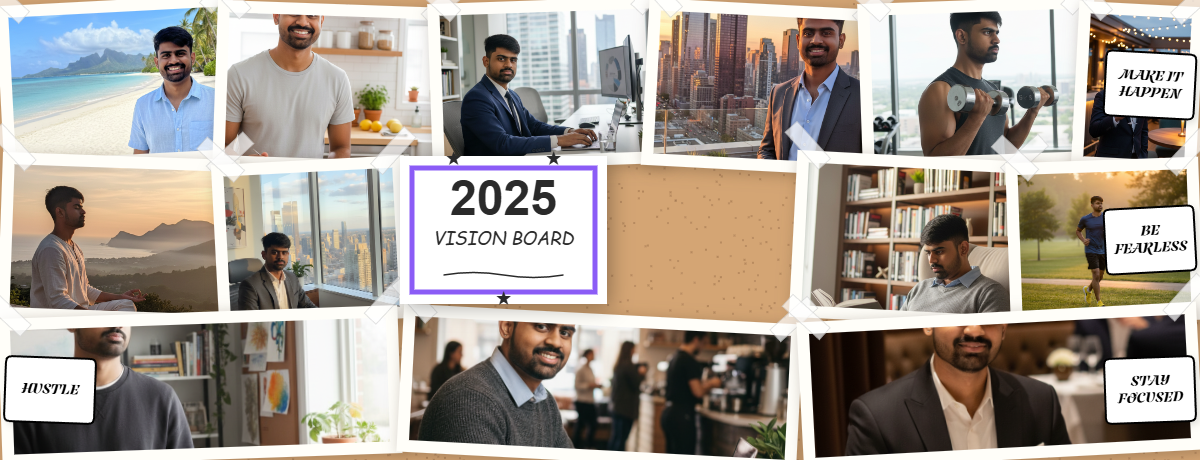
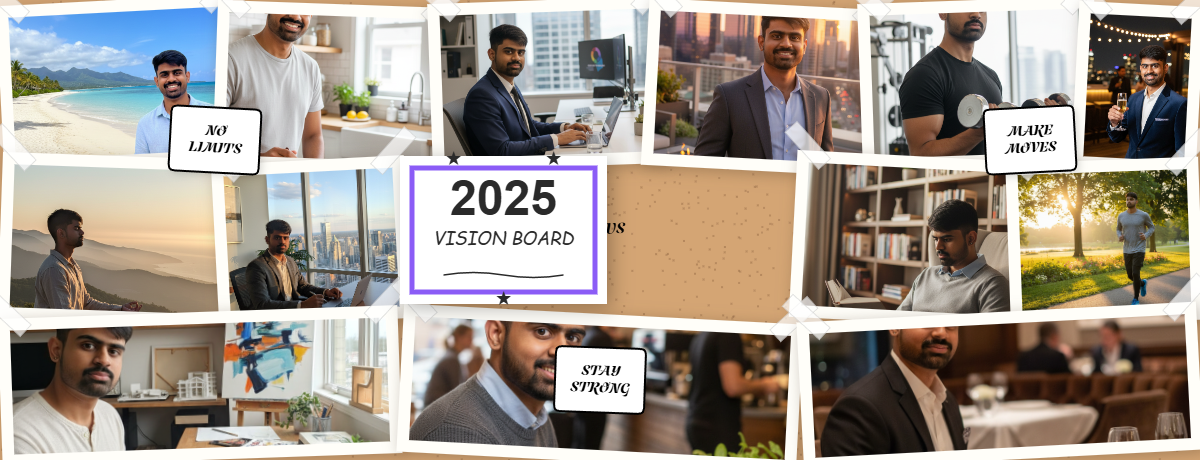
magazine collage template changes

diff --git a/src/components/templates/MagazineCollageTemplate.tsx b/src/components/templates/MagazineCollageTemplate.tsx
@@ -273,59 +273,124 @@ export default function MagazineCollageTemplate({
         ctx.restore();
       });
 
-      // Draw center "2025 VISION BOARD" card (scaled to 74%)
+      // Draw center "2025 VISION BOARD" card - Improved styling
       const centerX = 400;
       const centerY = 156;
       const centerW = 207;
       const centerH = 148;
+      const borderRadius = 8;
 
       ctx.save();
       ctx.translate(centerX + centerW / 2, centerY + centerH / 2);
       ctx.rotate(0); // No rotation for center card
 
-      // White background card
+      // White background card with rounded corners
+      const x = -centerW / 2;
+      const y = -centerH / 2;
+
+      ctx.beginPath();
+      ctx.moveTo(x + borderRadius, y);
+      ctx.lineTo(x + centerW - borderRadius, y);
+      ctx.quadraticCurveTo(x + centerW, y, x + centerW, y + borderRadius);
+      ctx.lineTo(x + centerW, y + centerH - borderRadius);
+      ctx.quadraticCurveTo(x + centerW, y + centerH, x + centerW - borderRadius, y + centerH);
+      ctx.lineTo(x + borderRadius, y + centerH);
+      ctx.quadraticCurveTo(x, y + centerH, x, y + centerH - borderRadius);
+      ctx.lineTo(x, y + borderRadius);
+      ctx.quadraticCurveTo(x, y, x + borderRadius, y);
+      ctx.closePath();
+
       ctx.fillStyle = '#ffffff';
       ctx.shadowColor = 'rgba(0, 0, 0, 0.3)';
       ctx.shadowBlur = 20;
       ctx.shadowOffsetX = 4;
       ctx.shadowOffsetY = 4;
-      ctx.fillRect(-centerW / 2, -centerH / 2, centerW, centerH);
+      ctx.fill();
       ctx.shadowColor = 'transparent';
 
-      // Purple border
-      ctx.strokeStyle = '#8b5cf6';
-      ctx.lineWidth = 5;
-      ctx.strokeRect(-centerW / 2 + 12, -centerH / 2 + 12, centerW - 24, centerH - 24);
+      // Gradient border (purple to pink)
+      const gradient = ctx.createLinearGradient(x, y, x + centerW, y + centerH);
+      gradient.addColorStop(0, '#8b5cf6');
+      gradient.addColorStop(1, '#ec4899');
+      ctx.strokeStyle = gradient;
+      ctx.lineWidth = 4;
+      ctx.strokeRect(x + 10, y + 10, centerW - 20, centerH - 20);
 
-      // Decorative stars at top
-      ctx.fillStyle = '#2a2a2a';
-      ctx.font = '20px Arial';
+      // "2025" text with gradient effect (simulated with solid color)
+      ctx.fillStyle = '#8b5cf6';
+      ctx.font = 'bold 52px Arial, sans-serif';
       ctx.textAlign = 'center';
-      ctx.fillText('★', -50, -65);
-      ctx.fillText('★', 50, -65);
-
-      // "2025" text
-      ctx.fillStyle = '#2a2a2a';
-      ctx.font = 'bold 48px Arial, sans-serif';
-      ctx.textAlign = 'center';
-      ctx.fillText('2025', 0, -15);
+      ctx.fillText('2025', 0, -10);
 
       // "VISION BOARD" text
-      ctx.font = 'italic 18px "Brush Script MT", cursive, Georgia';
+      ctx.fillStyle = '#4a5568';
+      ctx.font = 'italic 600 16px Georgia, serif';
       ctx.fillText('VISION BOARD', 0, 15);
 
-      // Wavy line decoration
-      ctx.strokeStyle = '#2a2a2a';
-      ctx.lineWidth = 1.5;
+      // Decorative underline with gradient
+      const underlineGradient = ctx.createLinearGradient(-60, 0, 60, 0);
+      underlineGradient.addColorStop(0, 'rgba(139, 92, 246, 0)');
+      underlineGradient.addColorStop(0.3, '#8b5cf6');
+      underlineGradient.addColorStop(0.7, '#ec4899');
+      underlineGradient.addColorStop(1, 'rgba(236, 72, 153, 0)');
+
+      ctx.fillStyle = underlineGradient;
+      ctx.fillRect(-60, 54, 120, 2);
+
+      ctx.restore();
+
+      // Draw transparent quote next to Vision Board card
+      const quoteX = 630;
+      const quoteY = 185;
+      const quoteW = 100;
+      const quoteH = 70;
+      const quoteRadius = 6;
+
+      ctx.save();
+      ctx.translate(quoteX + quoteW / 2, quoteY + quoteH / 2);
+      ctx.rotate((3 * Math.PI) / 180); // 3 degree rotation
+
+      const qx = -quoteW / 2;
+      const qy = -quoteH / 2;
+
+      // Rounded rectangle for transparent container
       ctx.beginPath();
-      ctx.moveTo(-60, 45);
-      ctx.quadraticCurveTo(-30, 40, 0, 45);
-      ctx.quadraticCurveTo(30, 50, 60, 45);
+      ctx.moveTo(qx + quoteRadius, qy);
+      ctx.lineTo(qx + quoteW - quoteRadius, qy);
+      ctx.quadraticCurveTo(qx + quoteW, qy, qx + quoteW, qy + quoteRadius);
+      ctx.lineTo(qx + quoteW, qy + quoteH - quoteRadius);
+      ctx.quadraticCurveTo(qx + quoteW, qy + quoteH, qx + quoteW - quoteRadius, qy + quoteH);
+      ctx.lineTo(qx + quoteRadius, qy + quoteH);
+      ctx.quadraticCurveTo(qx, qy + quoteH, qx, qy + quoteH - quoteRadius);
+      ctx.lineTo(qx, qy + quoteRadius);
+      ctx.quadraticCurveTo(qx, qy, qx + quoteRadius, qy);
+      ctx.closePath();
+
+      // Semi-transparent white background
+      ctx.fillStyle = 'rgba(255, 255, 255, 0.3)';
+      ctx.shadowColor = 'rgba(0, 0, 0, 0.1)';
+      ctx.shadowBlur = 6;
+      ctx.shadowOffsetX = 2;
+      ctx.shadowOffsetY = 2;
+      ctx.fill();
+
+      // Semi-transparent border
+      ctx.strokeStyle = 'rgba(0, 0, 0, 0.2)';
+      ctx.lineWidth = 2;
+      ctx.shadowColor = 'transparent';
       ctx.stroke();
 
-      // Bottom star
-      ctx.font = '20px Arial';
-      ctx.fillText('★', 0, 75);
+      // Draw quote text
+      ctx.fillStyle = '#000000';
+      ctx.font = 'bold 14px Telma, Arial, sans-serif';
+      ctx.textAlign = 'center';
+      ctx.textBaseline = 'middle';
+
+      const quoteLines = selectedQuotes[0].split('\n');
+      quoteLines.forEach((line, index) => {
+        const yOffset = (index - (quoteLines.length - 1) / 2) * 17;
+        ctx.fillText(line, 0, yOffset);
+      });
 
       ctx.restore();
     };
@@ -572,7 +637,7 @@ export default function MagazineCollageTemplate({
           />
         </div>
 
-        {/* Center "2025 VISION BOARD" Card */}
+        {/* Center "2025 VISION BOARD" Card - Improved Styling */}
         <div
           className="absolute bg-white shadow-2xl flex flex-col items-center justify-center"
           style={{
@@ -581,77 +646,97 @@ export default function MagazineCollageTemplate({
             width: '207px',
             height: '148px',
             zIndex: 100,
+            borderRadius: '8px',
           }}
         >
-          {/* Purple Border */}
+          {/* Gradient Border */}
           <div
             style={{
               position: 'absolute',
-              top: '12px',
-              left: '12px',
-              right: '12px',
-              bottom: '12px',
-              border: '5px solid #8b5cf6',
+              top: '10px',
+              left: '10px',
+              right: '10px',
+              bottom: '10px',
+              border: '4px solid',
+              borderImage: 'linear-gradient(135deg, #8b5cf6, #ec4899) 1',
+              borderRadius: '4px',
             }}
           />
-
-          {/* Decorative Stars at top */}
-          <div style={{
-            position: 'absolute',
-            top: '18%',
-            fontSize: '20px',
-            color: '#2a2a2a',
-            display: 'flex',
-            gap: '100px'
-          }}>
-            <span>★</span>
-            <span>★</span>
-          </div>
 
           {/* Main Text Container */}
           <div style={{
             display: 'flex',
             flexDirection: 'column',
             alignItems: 'center',
-            gap: '8px',
+            gap: '4px',
             marginTop: '0'
           }}>
             <div style={{
-              fontSize: '48px',
+              fontSize: '52px',
               fontWeight: 'bold',
-              color: '#2a2a2a',
-              lineHeight: '1'
+              background: 'linear-gradient(135deg, #8b5cf6, #ec4899)',
+              WebkitBackgroundClip: 'text',
+              WebkitTextFillColor: 'transparent',
+              lineHeight: '1',
+              letterSpacing: '2px',
             }}>
               2025
             </div>
             <div style={{
-              fontFamily: '"Brush Script MT", cursive, Georgia',
+              fontFamily: 'Georgia, serif',
               fontStyle: 'italic',
-              fontSize: '18px',
-              color: '#2a2a2a',
+              fontSize: '16px',
+              color: '#4a5568',
+              letterSpacing: '1px',
+              fontWeight: '600',
             }}>
               VISION BOARD
             </div>
           </div>
 
-          {/* Wavy Line */}
-          <svg style={{
-            position: 'absolute',
-            bottom: '22%',
-            width: '50%'
-          }} height="12" viewBox="0 0 100 10">
-            <path d="M0,5 Q25,0 50,5 T100,5" stroke="#2a2a2a" strokeWidth="1.5" fill="none" />
-          </svg>
-
-          {/* Bottom Star */}
+          {/* Decorative underline */}
           <div style={{
             position: 'absolute',
-            bottom: '12%',
-            fontSize: '20px',
-            color: '#2a2a2a'
-          }}>
-            ★
-          </div>
+            bottom: '20px',
+            width: '60%',
+            height: '2px',
+            background: 'linear-gradient(to right, transparent, #8b5cf6, #ec4899, transparent)',
+          }} />
+        </div>
+
+        {/* Transparent Quote next to Vision Board card */}
+        <div
+          style={{
+            position: "absolute",
+            top: "185px",
+            left: "630px",
+            width: "100px",
+            height: "70px",
+            transform: "rotate(3deg)",
+            backgroundColor: "rgba(255, 255, 255, 0.3)",
+            border: "2px solid rgba(0, 0, 0, 0.2)",
+            borderRadius: "6px",
+            boxShadow: "2px 2px 6px rgba(0,0,0,0.1)",
+            display: "flex",
+            alignItems: "center",
+            justifyContent: "center",
+            padding: "6px",
+            zIndex: 50,
+          }}
+        >
+          <div
+            style={{
+              fontFamily: "Telma, Arial, sans-serif",
+              fontWeight: "bold",
+              fontSize: "14px",
+              color: "#000000",
+              textAlign: "center",
+              lineHeight: "1.2",
+            }}
+            dangerouslySetInnerHTML={{
+              __html: selectedQuotes[0].replace("\n", "<br/>"),
+            }}
+          />
         </div>
       </div>
     </>
